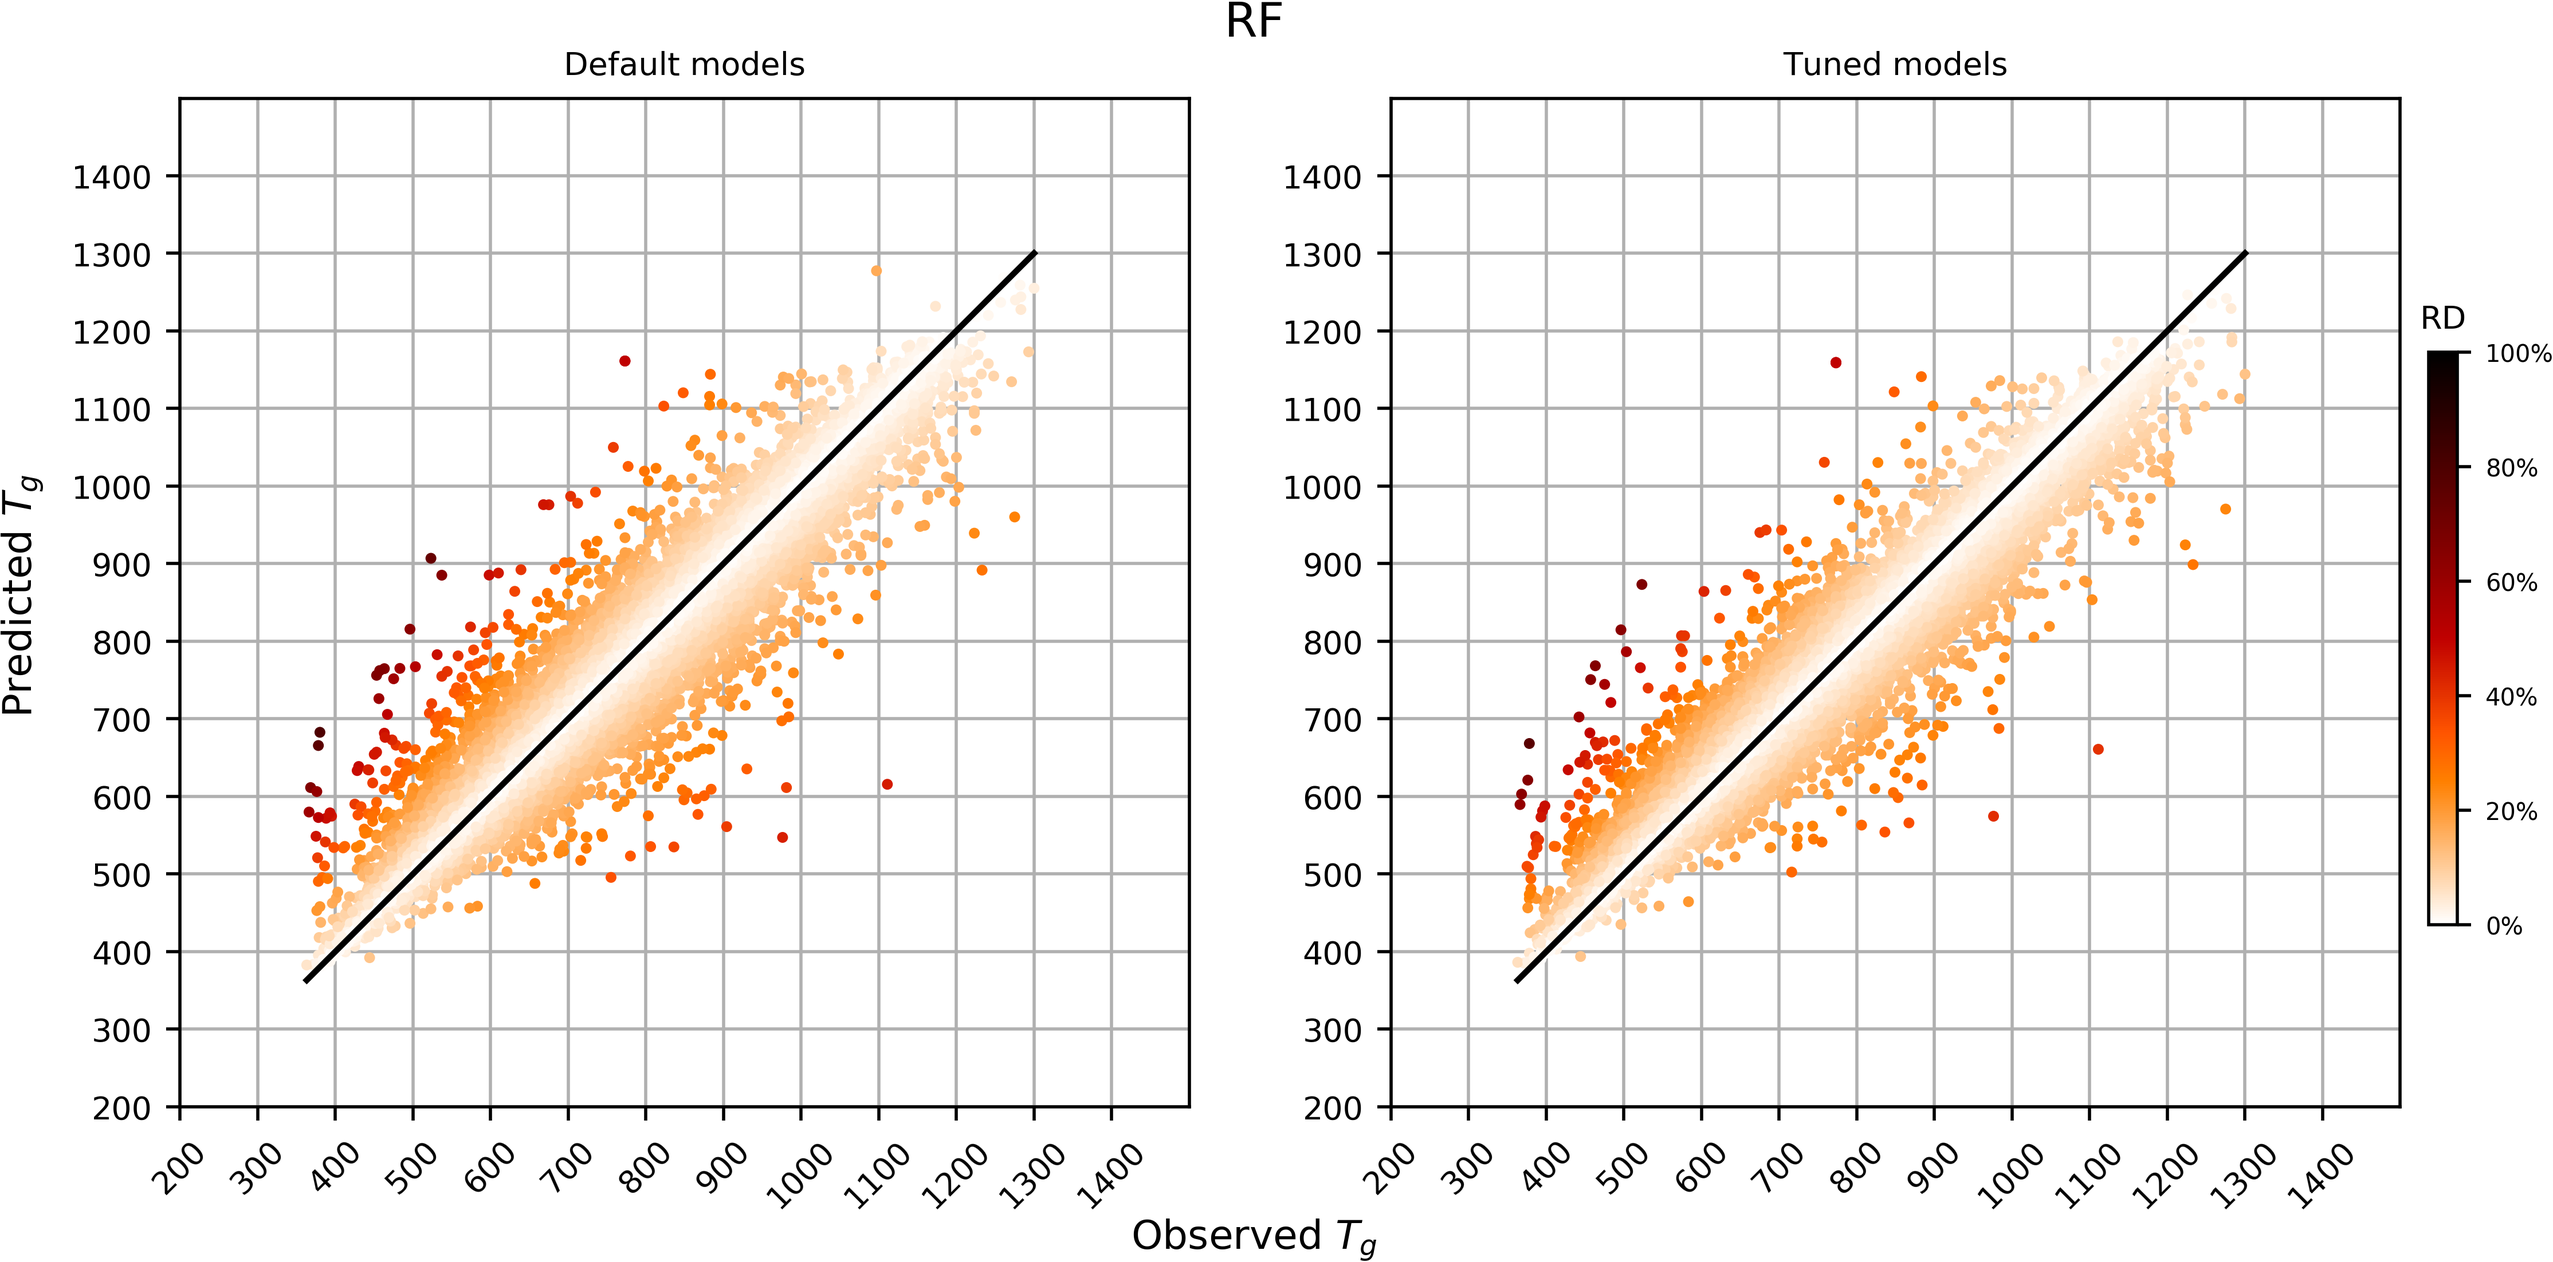
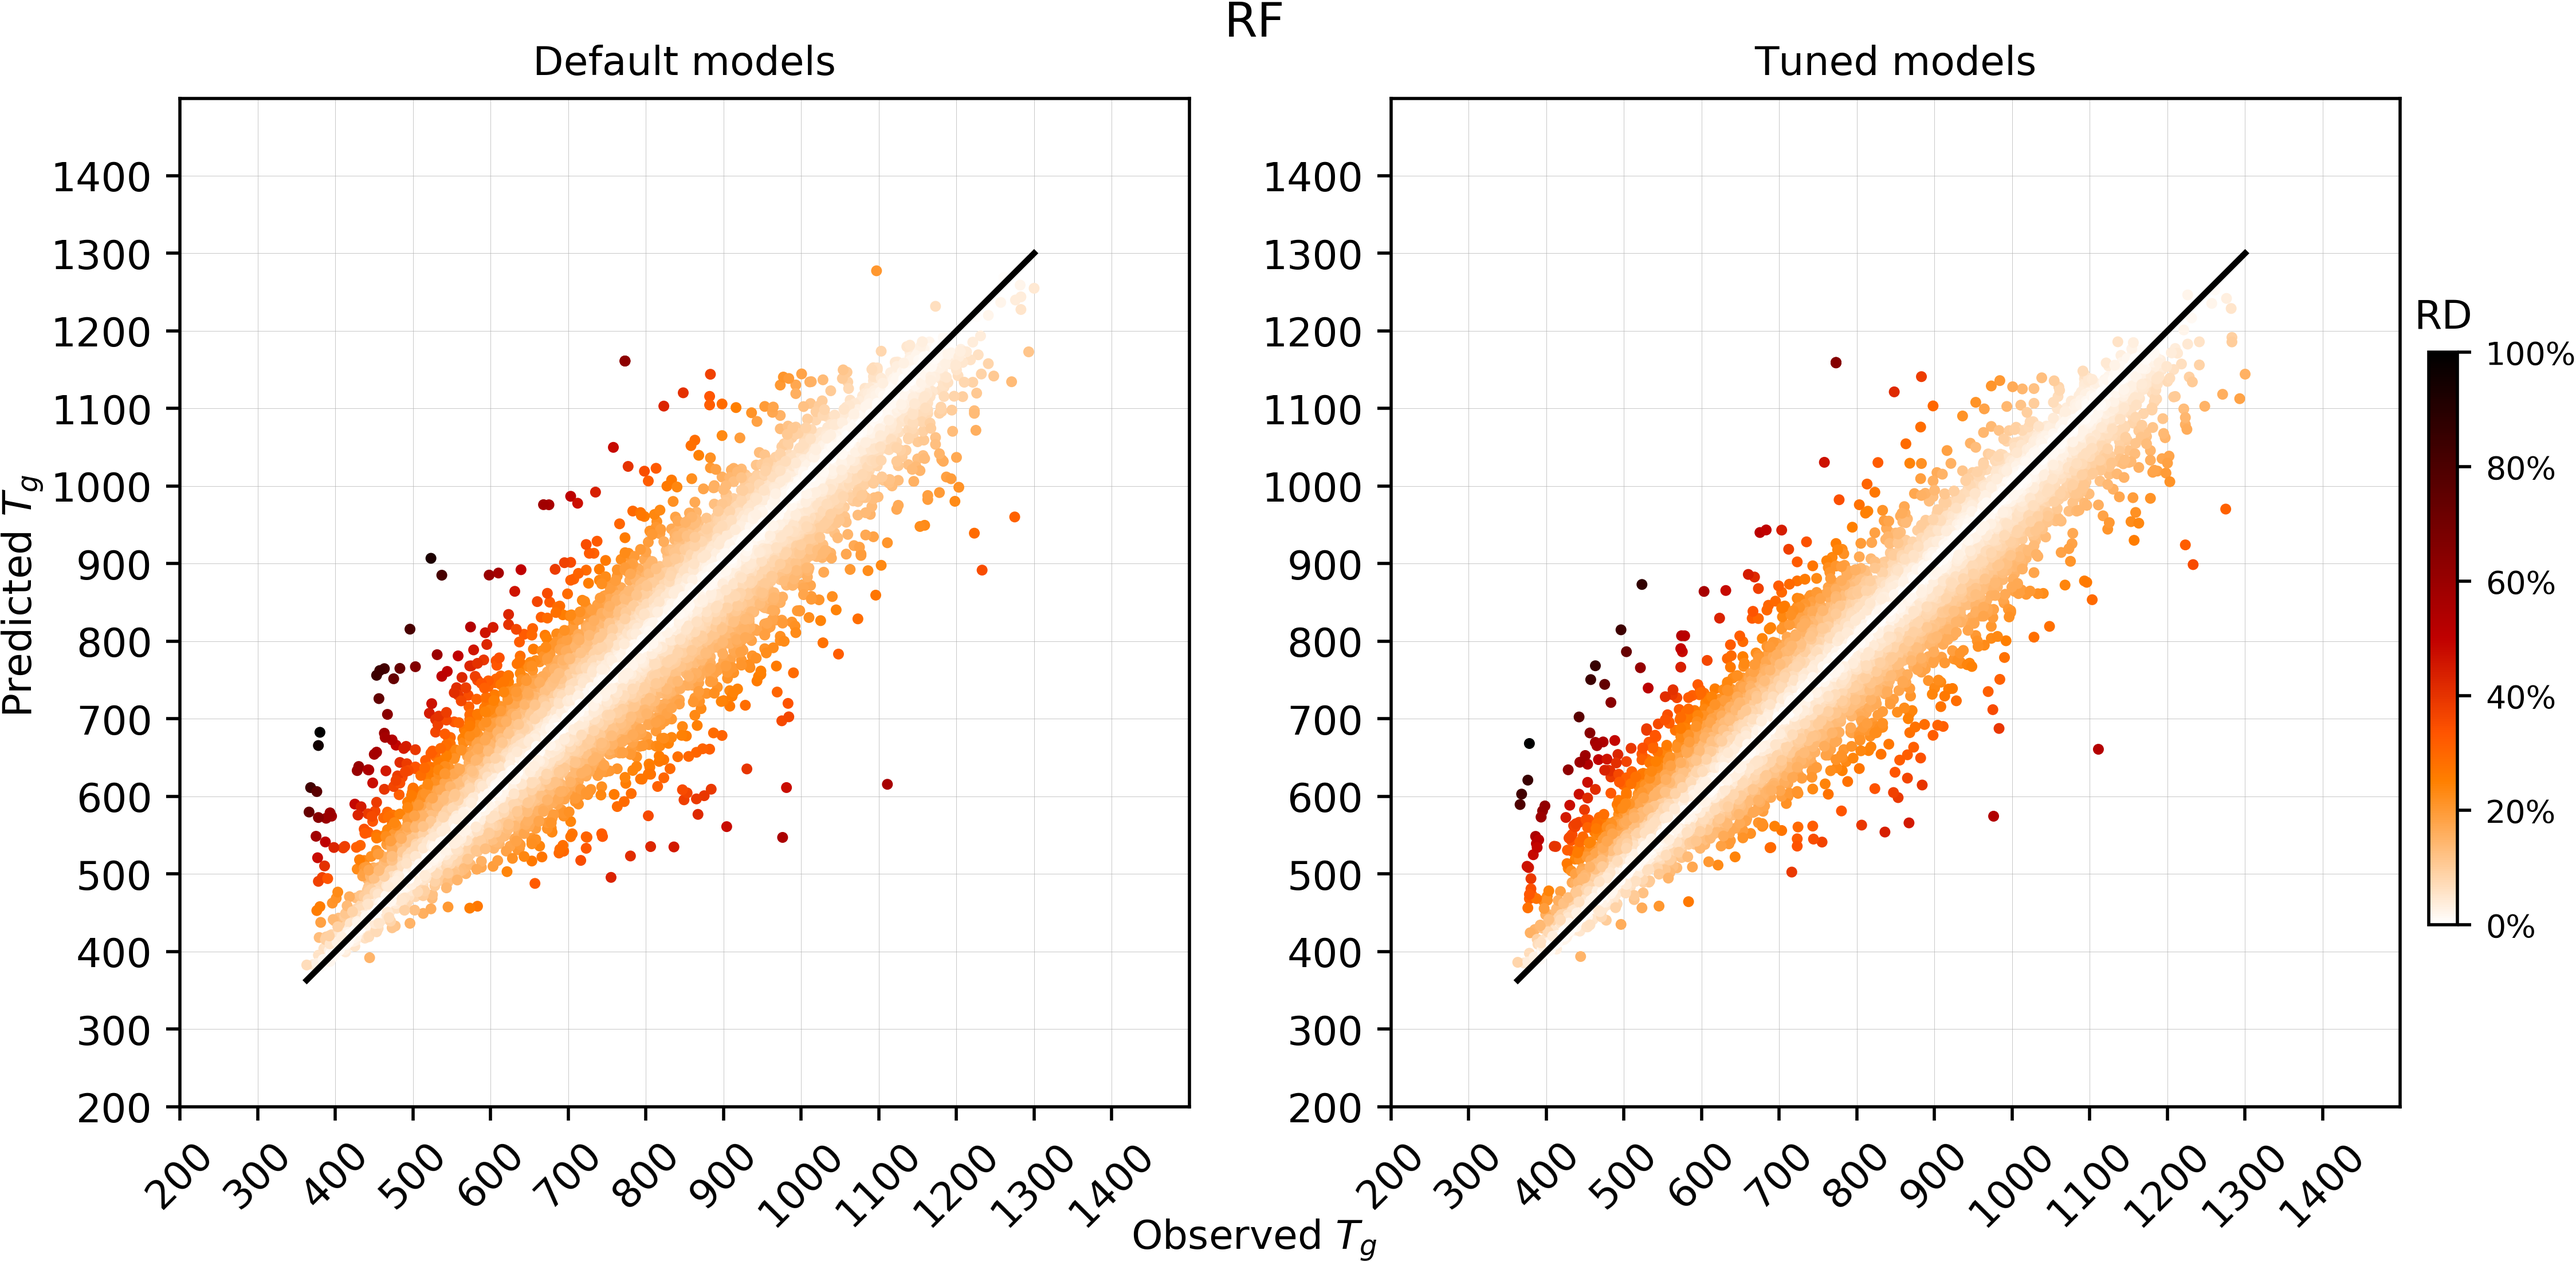
Plots updated

diff --git a/source/tuning/scatter_plot_predictions.py b/source/tuning/scatter_plot_predictions.py
@@ -1,6 +1,9 @@
 import os
 import math
 import matplotlib.pyplot as plt
+from matplotlib.colors import Normalize
+from matplotlib.cm import ScalarMappable
+from matplotlib.colorbar import ColorbarBase
 import numpy as np
 import pandas as pd
 from constants import TARGETS_FORMATTED as targets
@@ -87,11 +90,11 @@ for target, ftarget in targets.items():
         y = standard.loc[:, '{}_pred'.format(reg)]
 
         plt.scatter(x[order], y[order], s=3, c=colors_standard[order],
-                    cmap=cmap, vmin=0, vmax=100)
+                    cmap=cmap, vmin=0, vmax=np.max(colors_standard))
         plt.plot([x_min, x_max], [x_min, x_max], c='black')
         plt.xlabel(None)
         plt.ylabel(None)
-        plt.title('Default models', fontsize=8)
+        plt.title('Default models', fontsize=10)
         plt.xlim(rounddown(x_min, fract), roundup(x_max, fract))
         plt.ylim(rounddown(x_min, fract), roundup(x_max, fract))
         ax.set_xticks(
@@ -101,9 +104,9 @@ for target, ftarget in targets.items():
             np.arange(rounddown(x_min, fract), roundup(x_max, fract), incr)
         )
         ax.set_axisbelow(True)
-        ax.tick_params(labelsize=8)
+        ax.tick_params(labelsize=10)
         ax.tick_params(axis='x', labelrotation=45)
-        plt.grid(True)
+        plt.grid(True, linewidth=0.1)
 
         ax = plt.subplot(122, aspect='equal')
         order = np.argsort(best.loc[:, reg])
@@ -111,12 +114,12 @@ for target, ftarget in targets.items():
         x_min, x_max = (min(x), max(x))
         y = best.loc[:, '{}_pred'.format(reg)]
 
-        aux_cb = plt.scatter(x[order], y[order], s=3, c=colors_best[order],
-                             cmap=cmap, vmin=0, vmax=100)
+        plt.scatter(x[order], y[order], s=3, c=colors_best[order],
+                    cmap=cmap, vmin=0, vmax=np.max(colors_best))
         plt.plot([x_min, x_max], [x_min, x_max], c='black')
         plt.xlabel(None)
         plt.ylabel(None)
-        plt.title('Tuned models', fontsize=8)
+        plt.title('Tuned models', fontsize=10)
         plt.xlim(rounddown(x_min, fract), roundup(x_max, fract))
         plt.ylim(rounddown(x_min, fract), roundup(x_max, fract))
         ax.set_xticks(
@@ -126,9 +129,9 @@ for target, ftarget in targets.items():
             np.arange(rounddown(x_min, fract), roundup(x_max, fract), incr)
         )
         ax.set_axisbelow(True)
-        ax.tick_params(labelsize=8)
+        ax.tick_params(labelsize=10)
         ax.tick_params(axis='x', labelrotation=45)
-        plt.grid(True)
+        plt.grid(True, linewidth=0.1)
 
         fig.text(0.5, 0.9, '{}'.format(freg),
                  ha='center', va='center', fontsize=12)
@@ -139,11 +142,13 @@ for target, ftarget in targets.items():
 
         fig.subplots_adjust(right=0.9)
         cbar_ax = fig.add_axes([0.91, 0.27, 0.01, 0.4])
-        cbar = fig.colorbar(aux_cb, cax=cbar_ax, ticks=np.arange(0, 110, 20))
+        cbar = ColorbarBase(
+            cbar_ax, norm=Normalize(vmin=0, vmax=100), cmap=cmap
+        )
         cbar.ax.set_yticklabels(['{}%'.format(tick) for tick in
                                  np.arange(0, 110, 20)])
-        cbar.ax.tick_params(labelsize=6)
-        cbar.ax.set_title('RD', fontsize=8)
+        cbar.ax.tick_params(labelsize=8)
+        cbar.ax.set_title('RD', fontsize=10)
 
         plt.savefig(
             os.path.join(

diff --git a/source/tuning/feature_importance_extractor.py b/source/tuning/feature_importance_extractor.py
@@ -45,6 +45,14 @@ for target, ftarget in targets.items():
     plt.xticks(range(len(mean_imp)), ordered_feat, rotation=90, fontsize=8)
     plt.xlim([-1, len(mean_imp)])
     plt.ylabel('log(Importance)', fontsize=10)
+
+    x_tick_pos, _ = plt.xticks()
+    plt.bar(
+        x_tick_pos, [max(plt.yticks()[0])] * len(x_tick_pos),
+        width=(x_tick_pos[1] - x_tick_pos[0]),
+        color=['lightgray', 'white']
+    )
+
     plt.tight_layout()
     plt.savefig(os.path.join(output_path, 'importance_{}.eps'.format(target)),
                 dpi=500)
